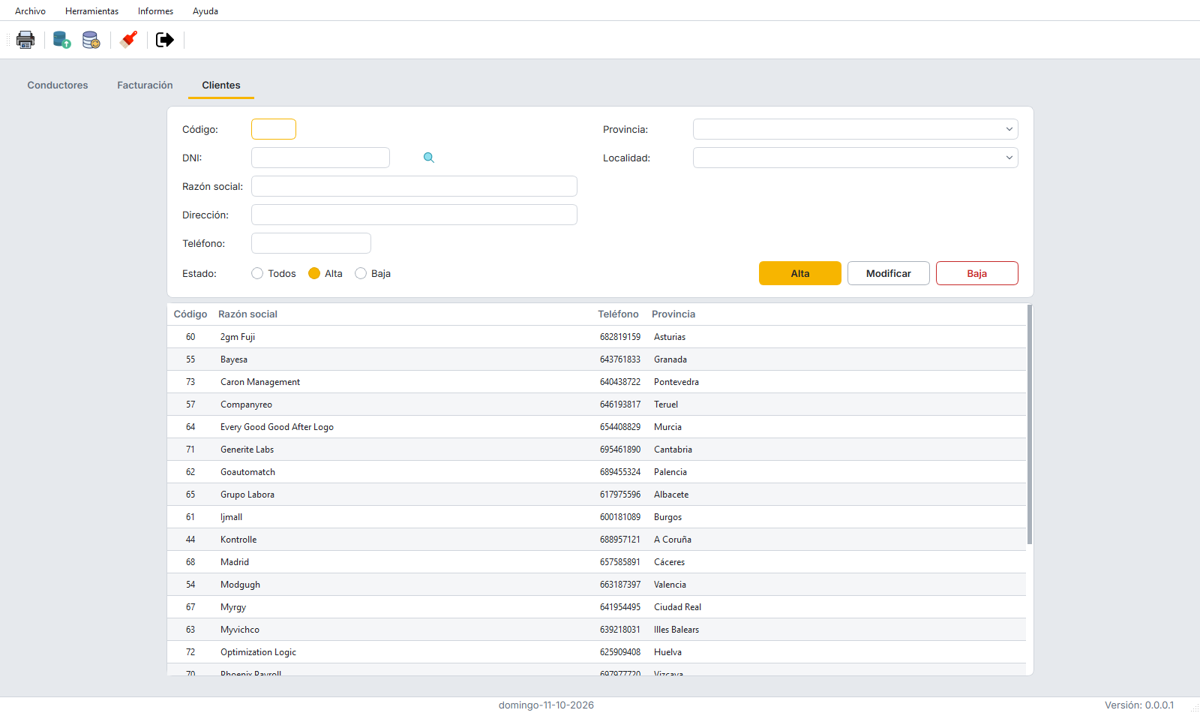
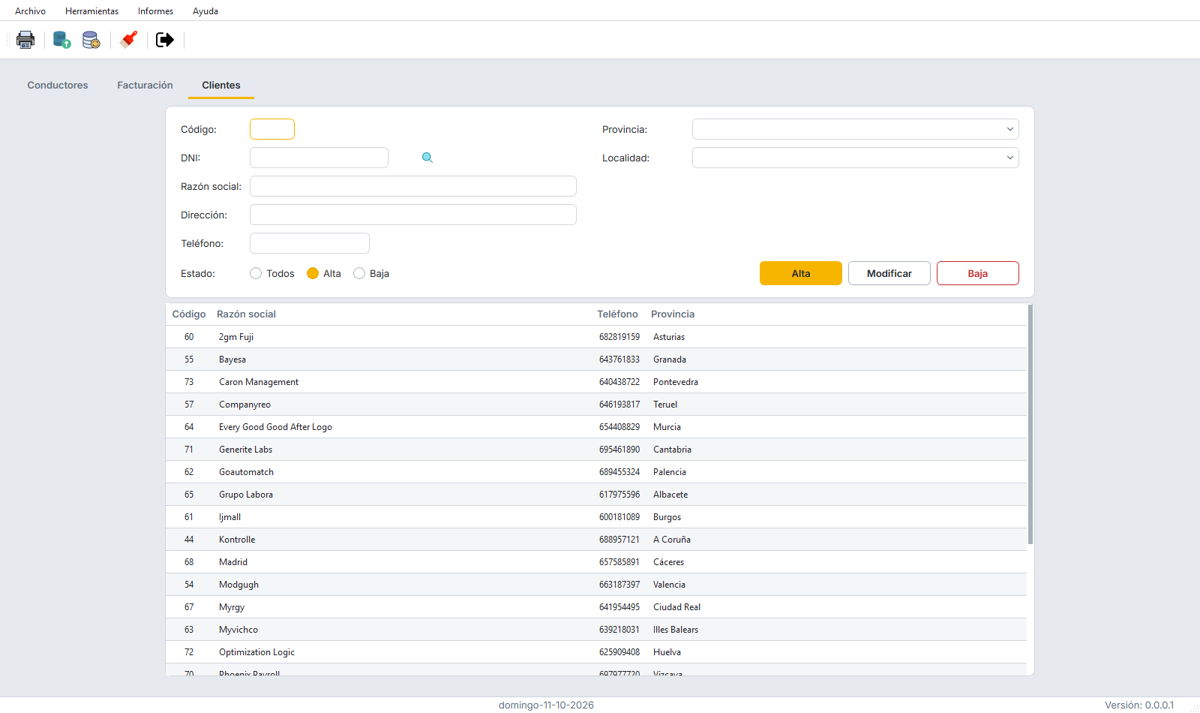
Line up each tab's card with its tables
Cards and tables sit in separate rows, each centred by its own
spacers, so their edges only matched when their widths happened to
match: the invoice card had a 940 px maximum and the tables a fixed
953 px block, while drivers and clients used hand-set 1157 px widths
and the client rows had spacers of different preferred sizes.

Every tab now has one content width: cards and table blocks expand
up to the same 1160 px maximum, the side spacers only take what is
left (preferred size 0) and the table frame has no inner margin.
Inside the invoicing block the invoice list has a fixed width and the
trip table takes the rest. Measured pixel-exact on all three tabs at
1280x720 and 1600x950; a UI test now checks it at both sizes.

diff --git a/tests/ui/test_main_window.py b/tests/ui/test_main_window.py
@@ -1,7 +1,10 @@
 from datetime import date
 
+import pytest
 from openpyxl import Workbook
+from PyQt6.QtCore import QPoint
 from PyQt6.QtGui import QCloseEvent
+from PyQt6.QtWidgets import QApplication
 
 from carteis.services import ClientService, DriverService, InvoicingService
 from carteis.ui.main_window import status_date
@@ -178,3 +181,20 @@ def test_import_lists_at_most_15_rejections(window, prompts, tmp_path):
     detail = prompts.messages[-1][2].splitlines()
     assert len(detail) == 16
     assert detail[-1] == "… y 5 más."
+
+
+@pytest.mark.parametrize("size", [(1280, 720), (1600, 950)])
+def test_cards_and_tables_share_their_edges(window, size):
+    """Each tab's card and its tables must line up left and right at any window size."""
+    window.resize(*size)
+    window.show()
+    ui = window.ui
+    for tab, card, tables in (
+        (0, ui.driverForm, ui.tblDrivers),
+        (1, ui.invoiceForm, ui.invoiceTablesFrame),
+        (2, ui.clientForm, ui.tblClients),
+    ):
+        ui.mainTabs.setCurrentIndex(tab)
+        QApplication.processEvents()
+        card_x, tables_x = (w.mapTo(window, QPoint(0, 0)).x() for w in (card, tables))
+        assert (card_x, card_x + card.width()) == (tables_x, tables_x + tables.width())
